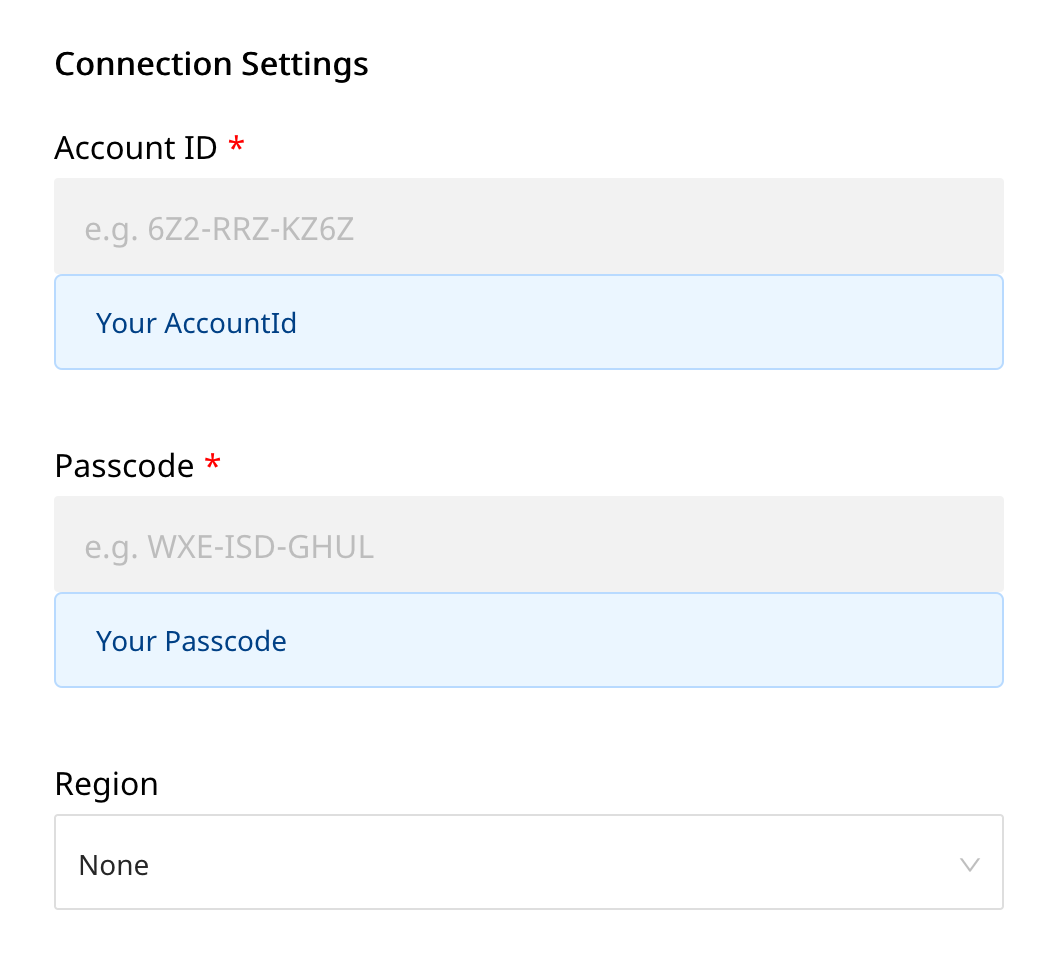
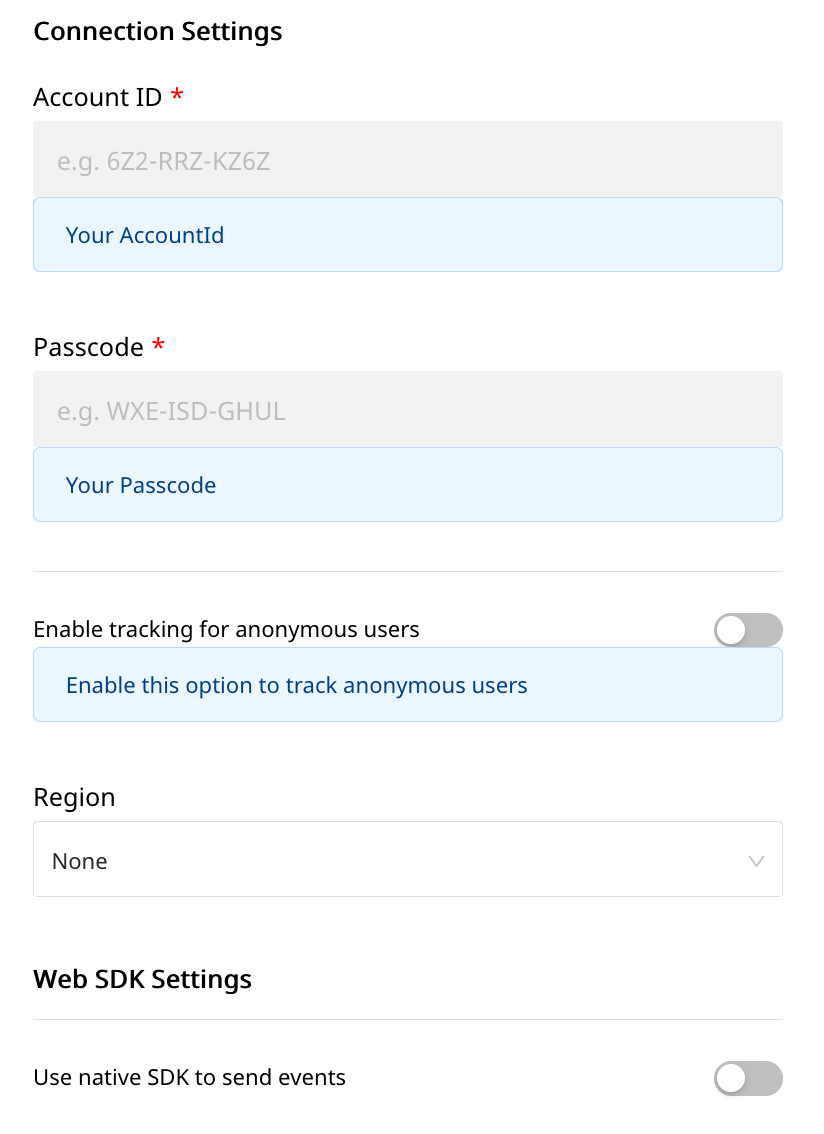
new change

diff --git a/destinations/clevertap.md b/destinations/clevertap.md
@@ -41,6 +41,7 @@ To successfully configure Clevertap as a destination, you will need to configure
 
 - **Account ID:** Your account ID is an unique ID generated for your account. It can be found in your account in the **Settings** as your **Project ID**.
 - **Passcode:** Your account passcode is an unique code generated for your account. It can be found in the **Settings** as **Passcode**.
+- **Enable track for anonymous user:** You can enable this option to track anonymous users in Clevertap.
 - **Region:** Server Only: This is your dedicated Clevertap region.
 - **Use Native SDK to send Events:** Enable this option if you want to send events using device mode.
 
@@ -92,7 +93,6 @@ A sample `track` call looks like the following:
 rudderanalytics.track("Checked Out", {
   Clicked_Rush_delivery_Button: true,
   total_value: 2000,
-  Odered: ["T-Shirt", "jacket"],
   revenue: 2000,
 });
 ```
@@ -101,6 +101,10 @@ In the above snippet, RudderStack captures the information related to the `Check
 
 {% hint style="info" %}
 To set a specific value to the `screen` or `track` type event, you need to pass the `event` related property in the `properties` field.
+{% endhint %}
+
+{% hint style="info" %}
+Note: For `track`, `page` and `screen` events CleverTap does not support arrays or nested objects for custom event properties.
 {% endhint %}
 
 ### Order Completed
@@ -212,6 +216,10 @@ In the above snippet, RudderStack captures relevant information about the user s
 
 {% hint style="info" %}
 If a user already exists, the new values will be updated for that user. Rudderstack automatically maps the `userId` (or `anoymousId`) to Clevertap user's `identity`.
+{% endhint %}
+
+{% hint style="info" %}
+Note: For `identify` events CleverTap does not support nested objects for user's `traits`.
 {% endhint %}
 
 {% hint style="info" %}
